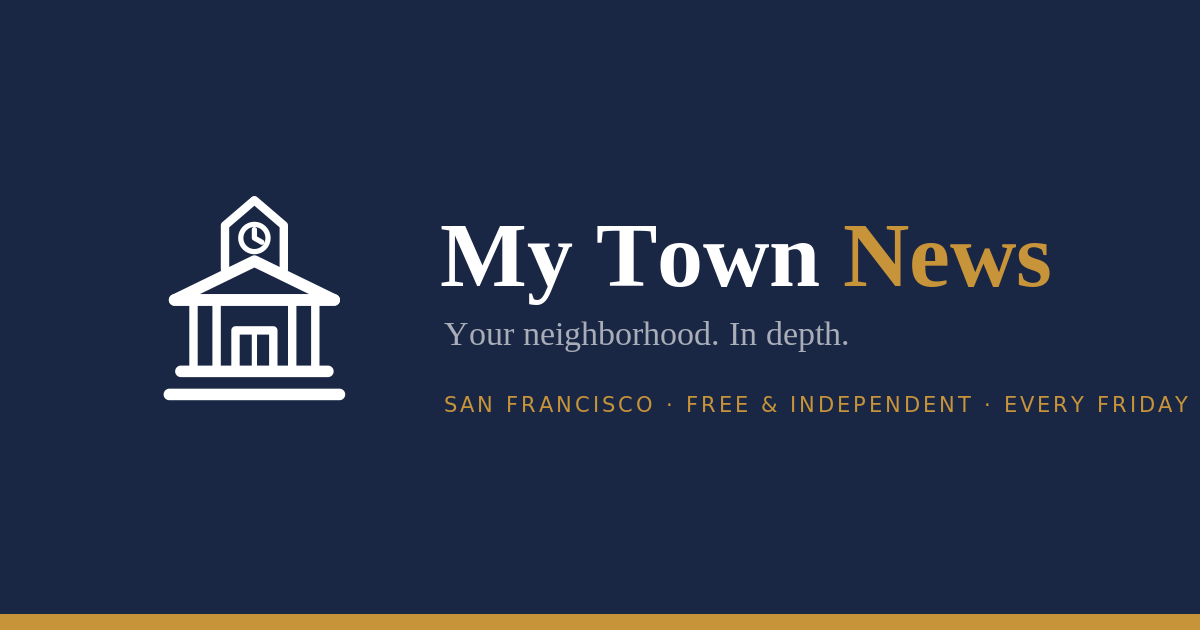
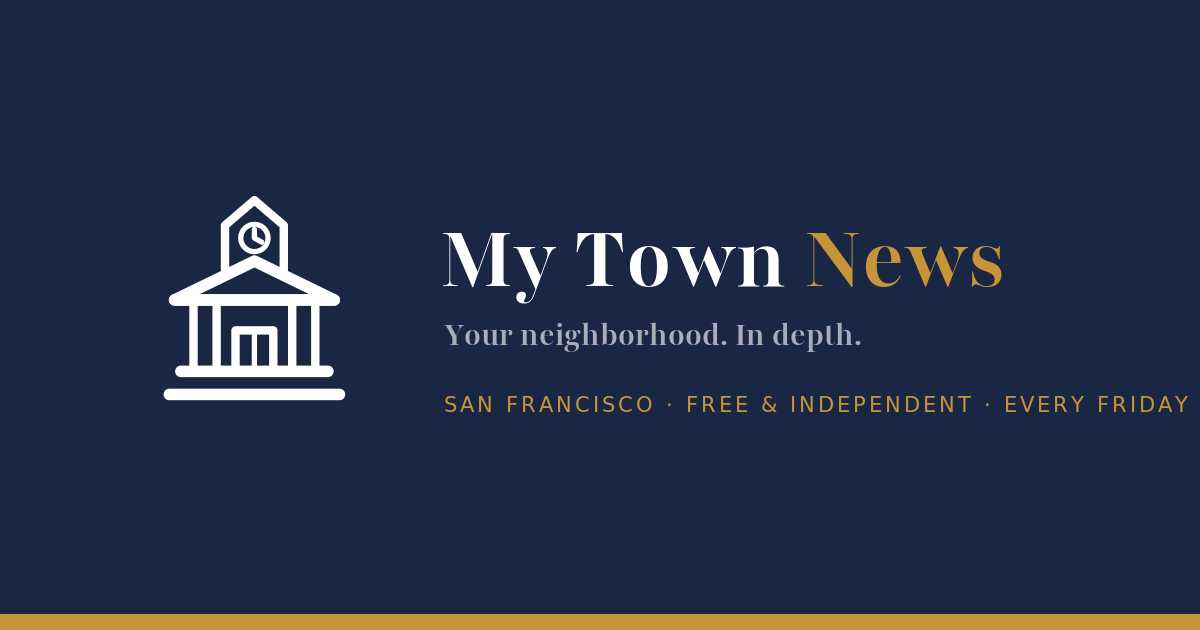
feat: render the share card in Playfair, not a substitute serif
Brian supplied Playfair_144pt-Bold.ttf directly, which avoided opening a
font-download domain in the sandbox network policy — narrower blast radius
than an allowlist change for the same result.

The wordmark now has the didone contrast the masthead has: hairline thins
against heavy stems, rather than the uniform Times-like weight of
Liberation Serif.

This is Playfair 144pt rather than Playfair Display — sibling families,
same designer, visually very close. The 144pt optical size is cut for
large display use, so it arguably suits a 92px wordmark better than
Display. Documented in the assets README along with the fontconfig step
needed to regenerate.

Changed region(s): [[0.37, 0.3619, 0.8942, 0.4825], [0.37, 0.5127, 0.7092, 0.573]]

diff --git a/src/assets/img/README.md b/src/assets/img/README.md
@@ -34,16 +34,26 @@ cairosvg.svg2png(url='og-image.svg',   write_to='og-image.png',         output_w
 PY
 ```
 
-## Known limitation: the share card font
+## The share card font
 
-`og-image.svg` sets the wordmark in `Liberation Serif`, not **Playfair
-Display**, which is what the site masthead uses. Playfair could not be
-downloaded in the environment where this was generated.
+`og-image.svg` sets the wordmark in **Playfair 144pt Bold**, rendered from a
+locally installed copy of the font.
 
-To fix: install Playfair Display locally, change the two `font-family`
-attributes in `og-image.svg` to `Playfair Display, serif`, and re-run the
-snippet above. Nothing else needs to change — the meta tags already point
-at `og-image.png`.
+Note this is Playfair *144pt*, not Playfair *Display*. They are sibling
+families from the same designer: Playfair (2023) ships optical sizes, while
+Playfair Display is the older release the site CSS loads from Google Fonts.
+They are visually very close, and the 144pt optical size is designed for
+large display settings — arguably a better fit for a 92px wordmark than
+Display would be. If exact parity with the masthead ever matters, substitute
+`Playfair Display` and re-render.
+
+To regenerate you need the font available to fontconfig:
+
+```bash
+cp Playfair_144pt-Bold.ttf ~/.fonts/ && fc-cache -f
+```
+
+Then run the snippet above.
 
 ## After changing the share card
 
